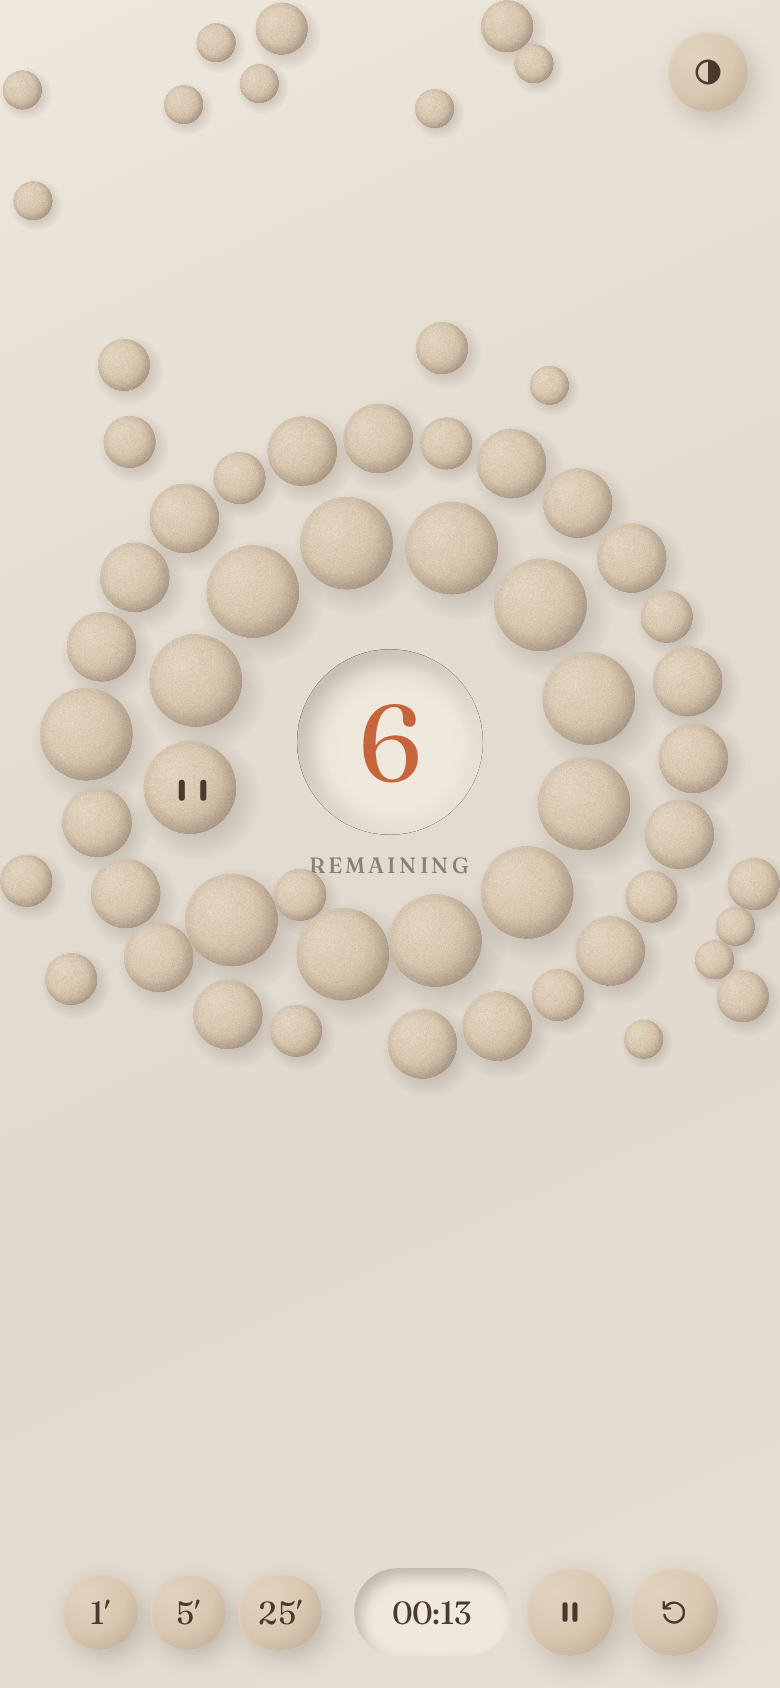
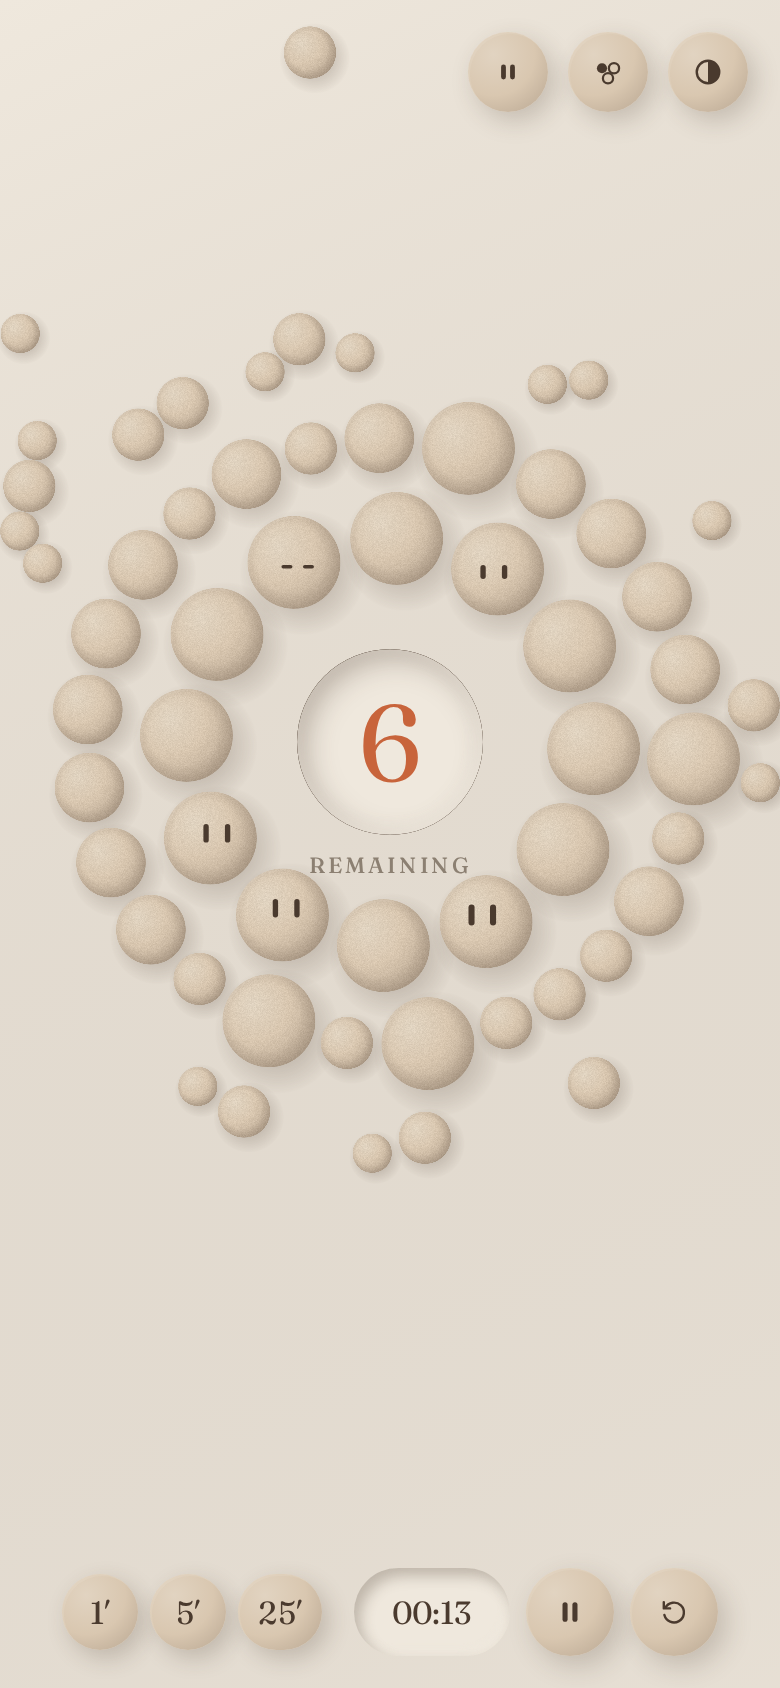
Add a crew of faced pebbles with personalities (1/5/12 faces)
- Keeper plus companions: curious, sleepy, follower, shy
- Performer rule: the tapped or dragged face leads, the rest look at it
- Faces toggle button (F key, ?faces=), note under the clock on change
- Crisper blink reopen; DESIGN.md section 11; faces-* screenshots

Claude-Session: https://claude.ai/code/session_01RTcCsnNEE6vf2bpxptQvy7

diff --git a/dots-countdown.html b/dots-countdown.html
@@ -189,6 +189,9 @@ canvas#stage.grabbing { cursor: grabbing; }
 <div class="sr" aria-live="polite" id="live"></div>
 
 <div class="corner">
+  <button class="clay round" id="faces" aria-label="臉的數量" title="臉的數量（F）">
+    <svg viewBox="0 0 24 24" aria-hidden="true"><circle cx="12" cy="12" r="7.6" fill="none" stroke="currentColor" stroke-width="1.5"/><rect x="8.7" y="9.4" width="2" height="4.6" rx="1" fill="currentColor"/><rect x="13.3" y="9.4" width="2" height="4.6" rx="1" fill="currentColor"/></svg>
+  </button>
   <button class="clay round" id="glaze" aria-expanded="false" aria-controls="tray" aria-label="釉組" title="釉組（G）">
     <svg viewBox="0 0 24 24" aria-hidden="true"><circle cx="8" cy="9.5" r="3.4" fill="currentColor"/><circle cx="16" cy="9.5" r="3.4" fill="none" stroke="currentColor" stroke-width="1.5"/><circle cx="12" cy="16.2" r="3.4" fill="none" stroke="currentColor" stroke-width="1.5"/></svg>
   </button>
@@ -551,17 +554,39 @@ function makeDot(level) {
 }
 function syncDots() {
   const n = targetCount();
-  if (!keeper) { keeper = makeDot(0); keeper.keeper = true; keeper.glaze = 0; dots.push(keeper); place(keeper); }
+  if (!keeper) { keeper = makeDot(0); keeper.keeper = true; keeper.glaze = 0; keeper.face = makeFace('keeper'); dots.push(keeper); place(keeper); }
   while (dots.length > n) dots.pop();
   while (dots.length < n) { const d = makeDot(pickLevel()); dots.push(d); place(d); }
   for (const d of dots) {
     d.r = R * SIZE_STEPS[d.level]; d.m = d.r * d.r;
     d.x = clamp(d.x, d.r, W - d.r); d.y = clamp(d.y, d.r, H - d.r);
   }
+  assignFaces();
 }
 
 /* Keeper 的眼睛：Settle spring 驅動 */
-const eye = { open: spring(1), tall: spring(1), gx: spring(0), gy: spring(0), smile: spring(0), nextBlink: 0, blinkEnd: 0, happyUntil: 0 };
+/* 臉：Keeper 是隊長，其餘是個性不同的夥伴。每張臉的眼睛都由 Settle spring 驅動 */
+const makeFace = persona => ({ persona, open: spring(1), tall: spring(1), gx: spring(0), gy: spring(0), smile: spring(0),
+  nextBlink: performance.now() + 800 + rand() * 4000, blinkEnd: 0, happyUntil: 0 });
+const PERSONAS = ['curious', 'sleepy', 'follower', 'shy'];   // 好奇、愛睏、跟班、害羞
+const FACE_OPTIONS = [1, 5, 12];
+let faceCount = 5;
+try { const v = +localStorage.getItem('dots-faces'); if (FACE_OPTIONS.includes(v)) faceCount = v; } catch (e) {}
+if (FACE_OPTIONS.includes(+qs.get('faces'))) faceCount = +qs.get('faces');
+let performer = null;            // { dot, until }：正在表演的那一顆，其他臉會看向它
+let labelNote = null;            // { text, until }：暫時取代狀態標籤的提示
+function assignFaces() {
+  // 夥伴優先挑大顆（眼睛才讀得清楚），依陣列順序決定，切換數量時不會亂換人
+  const want = Math.min(faceCount - 1, dots.length - 1);
+  const pool = dots.filter(d => d !== keeper && d.level <= 2).sort((a, b) => a.level - b.level || dots.indexOf(a) - dots.indexOf(b));
+  const chosen = new Set(pool.slice(0, want));
+  let i = 0;
+  for (const d of dots) {
+    if (d === keeper) continue;
+    if (chosen.has(d)) { if (!d.face) d.face = makeFace(PERSONAS[i % PERSONAS.length]); i++; }
+    else d.face = null;
+  }
+}
 
 /* ════════════════════ 倒數 ════════════════════ */
 const timer = { dur: 300000, state: 'ready', endAt: 0, rem: 300000 };
@@ -769,7 +794,7 @@ function readObstacles() {
     obstacles.push({ cx: b.left + b.width / 2, cy: b.top + b.height / 2, hw: Math.max(0, b.width / 2 - b.height / 2), cr });
   };
   if (!bar.classList.contains('hidden')) bar.querySelectorAll('.clay, .field').forEach(add);
-  add(themeBtn); add(glazeBtn);
+  add(themeBtn); add(glazeBtn); add(facesBtn);
   if (tray.classList.contains('open')) add(tray);
 }
 function collide() {
@@ -845,13 +870,14 @@ function drawBody(d) {
   const m = squashMatrix(d, 1 + d.lift.x * 0.06);
   ctx.setTransform(m[0] * DPR, m[1] * DPR, m[2] * DPR, m[3] * DPR, d.x * DPR, d.y * DPR);
   ctx.drawImage(dotSprites[d.glaze] || dotSprites[0], -d.r, -d.r, d.r * 2, d.r * 2);
-  if (d === keeper) drawEyes(d.r);
+  if (d.face) drawEyes(d.face, d.r, d === keeper ? 1 : 0.88);
   ctx.setTransform(DPR, 0, 0, DPR, 0, 0);
 }
-function drawEyes(r) {
-  const open = clamp(eye.open.x, 0, 1.3), tall = eye.tall.x, smile = clamp(eye.smile.x, 0, 1);
+function drawEyes(eye, r, k) {
+  // k：夥伴的眼睛略小（0.88），保持 Keeper 的焦點地位
+  const open = clamp(eye.open.x, 0, 1.3), tall = eye.tall.x * k, smile = clamp(eye.smile.x, 0, 1);
   const gx = eye.gx.x * r * 0.16, gy = eye.gy.x * r * 0.12 - r * 0.04;
-  const ew = r * 0.13, gap = r * 0.23;
+  const ew = r * 0.13 * k, gap = r * 0.23;
   ctx.fillStyle = rgb(pal.umber); ctx.strokeStyle = rgb(pal.umber);
   ctx.lineCap = 'round'; ctx.lineWidth = r * 0.075;
   for (const s of [-1, 1]) {
@@ -925,7 +951,7 @@ function render(now) {
     }
   }
   const label = { ready: 'ready', running: 'remaining', paused: 'paused', done: 'done' }[timer.state];
-  drawLabel(label);
+  drawLabel(labelNote && now < labelNote.until ? labelNote.text : label);
 
   drawWell();
   for (const d of dots) drawShadow(d);
@@ -938,22 +964,45 @@ function render(now) {
   drawVignette();
 }
 
-/* Keeper 情緒 */
+/* 臉的情緒：模式決定大方向，個性決定細節；有人在表演時，其他臉都看向它（群體把焦點讓出來） */
 function updateEyes(dt, now) {
+  if (performer && now > performer.until) performer = null;
+  if (drag) performer = { dot: drag.dot, until: now + T.t4 };
+  for (const d of dots) if (d.face) updateFace(d, d.face, dt, now);
+}
+function updateFace(d, eye, dt, now) {
+  const p = eye.persona, isStar = performer && performer.dot === d;
   let open = 1, tall = 1, smile = 0;
+  if (p === 'sleepy' && mode === 'idle') open = 0.55;           // 半睜眼
   if (mode === 'sleeping') open = 0;
   if (mode === 'alert') tall = 1.25;
-  if (mode === 'down' && now > keeper.releaseAt + T.t4 && Math.hypot(keeper.vx, keeper.vy) < 80) smile = 1;   // 落定後滿足地闔眼
+  if (mode === 'down' && now > d.releaseAt + T.t4 && Math.hypot(d.vx, d.vy) < 80) smile = 1;   // 落定後滿足地闔眼
   if (now < eye.happyUntil) smile = 1;
-  if (!reduced && open > 0 && now > eye.nextBlink) { eye.blinkEnd = now + T.t2; eye.nextBlink = now + 2600 + rand() * 3800; }
+  if (!reduced && open > 0 && now > eye.nextBlink) {
+    eye.blinkEnd = now + T.t2;
+    eye.nextBlink = now + (p === 'sleepy' ? 1800 : 2600) + rand() * 3800;
+  }
   if (now < eye.blinkEnd) open = 0;
-  // 視線：拖曳／指標 > 時鐘
-  let tx = clock.cx, ty = clock.cy;
-  if (drag || well || now - pointer.t < 2400) { tx = pointer.x; ty = pointer.y; }
-  if (drag && drag.dot === keeper) { tx = keeper.x + keeper.vx; ty = keeper.y + keeper.vy; }
-  const dx = tx - keeper.x, dy = ty - keeper.y, l = Math.hypot(dx, dy) || 1, f = Math.min(1, l / (R * 4));
+
+  // 視線
+  const pointerLive = drag || well || now - pointer.t < 2400;
+  let tx = clock.cx, ty = clock.cy, gain = 1;
+  if (mode === 'alert') { /* 全員盯著時鐘 */ }
+  else if (performer && !isStar) { tx = performer.dot.x; ty = performer.dot.y; }
+  else if (p === 'keeper') { if (pointerLive) { tx = pointer.x; ty = pointer.y; } }
+  else if (p === 'curious') { if (now - pointer.t < 6000) { tx = pointer.x; ty = pointer.y; gain = 1.15; } }
+  else if (p === 'follower') { tx = keeper.x; ty = keeper.y; }
+  else if (p === 'shy') {
+    if (pointerLive && Math.hypot(pointer.x - d.x, pointer.y - d.y) < R * 4) {
+      tx = 2 * d.x - pointer.x; ty = 2 * d.y - pointer.y; tall *= 0.8;    // 別過頭、縮一下
+    }
+  }
+  if (drag && drag.dot === d) { tx = d.x + d.vx; ty = d.y + d.vy; }
+  const dx = tx - d.x, dy = ty - d.y, l = Math.hypot(dx, dy) || 1, f = Math.min(1, l / (R * 4)) * gain;
   const S = reduced ? { w: 40, z: 1 } : SPRING_SETTLE;
-  springTo(eye.open, open, open < eye.open.x ? { w: 28, z: 1 } : S, dt);
+  // 閉眼快、眨完睜眼也俐落；從睡眠醒來才用較慢的 Settle
+  const openSp = open < eye.open.x ? { w: 28, z: 1 } : (mode === 'sleeping' || reduced ? S : { w: 18, z: 1 });
+  springTo(eye.open, open, openSp, dt);
   springTo(eye.tall, tall, S, dt);
   springTo(eye.smile, smile, S, dt);
   springTo(eye.gx, dx / l * f, S, dt);
@@ -1024,7 +1073,7 @@ function endPress(e) {
   if (drag) {
     const d = drag.dot;
     if (tap && !reduced) {
-      if (d === keeper) { d.vy -= 620; d.qv += 1.6; d.qa = Math.PI / 2; eye.happyUntil = now + T.t5; }
+      if (d.face) { d.vy -= 620; d.qv += 1.6; d.qa = Math.PI / 2; d.face.happyUntil = now + T.t5; performer = { dot: d, until: now + T.t5 }; }
       else { const a = Math.atan2(d.y - press.y, d.x - press.x); d.vx += Math.cos(a) * 180; d.vy += Math.sin(a) * 180 - 120; d.qv += 1.2; d.qa = Math.PI / 2; }
     } else if (!reduced) { d.vx = clamp(press.vx, -2400, 2400); d.vy = clamp(press.vy, -2400, 2400); }
     drag = null; cv.classList.remove('grabbing');
@@ -1139,6 +1188,18 @@ addEventListener('keydown', e => {
   if (e.key === 'Escape') setTray(false);
   if (e.key === 'g' || e.key === 'G') selectGlaze(GLAZE_IDS[(GLAZE_IDS.indexOf(glaze) + 1) % GLAZE_IDS.length]);
 });
+const facesBtn = document.getElementById('faces');
+function setFaces(n, note = true) {
+  faceCount = n;
+  try { localStorage.setItem('dots-faces', String(n)); } catch (e) {}
+  assignFaces();
+  facesBtn.setAttribute('aria-label', `臉的數量：${n}`);
+  facesBtn.title = `臉的數量：${n}（F）`;
+  if (note) { labelNote = { text: n === 1 ? 'one face' : `${n} faces`, until: performance.now() + T.t5 }; announce(`${n} 張臉`); }
+}
+const nextFaces = () => setFaces(FACE_OPTIONS[(FACE_OPTIONS.indexOf(faceCount) + 1) % FACE_OPTIONS.length]);
+facesBtn.addEventListener('click', nextFaces);
+addEventListener('keydown', e => { if (e.target !== input && (e.key === 'f' || e.key === 'F')) nextFaces(); });
 const THEMES = ['auto', 'light', 'dark'];
 function applyTheme(t) {
   if (t === 'auto') delete root.dataset.theme; else root.dataset.theme = t;
@@ -1175,6 +1236,7 @@ applyGlazeTokens();
 readPalette();
 applyTheme(THEMES[themeIdx]);
 resize();
+setFaces(faceCount, false);
 if (reduced) { readObstacles(); for (let i = 0; i < 720; i++) step(FIXED_DT, 0); }   // 靜止狀態直接落定
 updateUI();
 const fontReady = document.fonts ? Promise.race([document.fonts.load(`400 ${FS.f6}px Fraunces`), new Promise(r => setTimeout(r, 1500))]) : Promise.resolve();

diff --git a/DESIGN.md b/DESIGN.md
@@ -11,7 +11,7 @@
 它們漂浮、碰撞、被時間吸引。中央的時鐘不是擺上去的物件，而是**壓進桌面的凹槽**：
 凸起的是陶石，凹陷的是時鐘，兩者用同一道光說明彼此的高低關係。
 
-群體裡只有一顆陶石有臉，它叫 **Keeper（守窯者）**。它是整個作品唯一的「角色」，
+群體裡有臉的陶石組成一支小隊：**Keeper（守窯者）** 是隊長，其餘是個性不同的夥伴（數量可選 1／5／12，預設 5；詳見 §11）。
 其他陶石都是沒有表情的材質。
 
 ---
@@ -265,3 +265,38 @@
 | 2 | 直接加入新釉色會超過 5 色上限 | Ash 降為推算色，C 同時擔任強調色與點綴釉 |
 | 3 | 抹茶與墨的金色強調在亮底上對比不足 | 亮色的 C 加深到 `#A8751E`、`#9C7428` |
 | 4 | 手機寬度放不下托盤標籤 | 400px 以下隱藏文字標籤，只留色票（仍有 aria-label） |
+
+---
+
+## 11. 臉的小隊
+
+右上角「有眼睛的圓」按鈕可以切換臉的數量：**1 → 5 → 12**，預設 5。也可以按 `F` 切換，或用網址參數 `?faces=12`。
+切換時，時鐘下方的標籤會暫時顯示 `5 FACES`，持續 t5。選擇會存在瀏覽器裡。
+
+### 11.1 誰有臉
+- Keeper 永遠有臉，並維持主釉 A 色。
+- 夥伴優先挑較大的陶石（尺寸級別 ≤ 2），眼睛才讀得清楚；依陣列順序挑選，所以切換數量時不會換人。
+- 夥伴的眼睛是 Keeper 的 0.88 倍：隊長仍然是最顯眼的臉。
+
+### 11.2 個性（輪流分配）
+
+| 個性 | 待機時的行為 |
+|---|---|
+| Keeper 隊長 | 指標在動時看指標，否則看時鐘 |
+| 好奇 curious | 指標 6 秒內動過就盯著它，視線幅度 ×1.15 |
+| 愛睏 sleepy | 半睜眼（0.55），眨眼比較頻繁 |
+| 跟班 follower | 一直看著 Keeper |
+| 害羞 shy | 指標靠近（< 4R）時別過頭，眼睛縮小到 0.8 |
+
+### 11.3 維持「一個焦點」的規則
+- **表演者制度**：被點擊或正被拖曳的那一顆成為表演者（持續 t5）。其他所有臉都轉頭看向它，由群體把注意力讓給表演者，而不是各自搶戲。
+- **最後 10 秒**：所有臉一起盯著時鐘，眼睛變高（1.25）。
+- **暫停**：全體闔眼；**熄窯**：各自落定後才露出滿足的弧形眼。
+- 眨眼時間各自隨機，不會同步。閉眼用 ω=28 的彈簧、眨完睜眼用 ω=18，讓眨眼俐落；從睡眠醒來仍用 Settle 彈簧。
+
+### 11.4 自我檢查
+
+| # | 發現的不一致 | 修正 |
+|---|---|---|
+| 1 | 臉數按鈕原本畫成兩條直槓，跟暫停圖示一模一樣 | 改成「外框圓＋兩隻眼」，就是一顆有臉的陶石 |
+| 2 | 眨眼後睜開太慢（Settle ω=7），12 張臉時常看到好幾張瞇著 | 眨眼後的睜眼改用 ω=18 |
